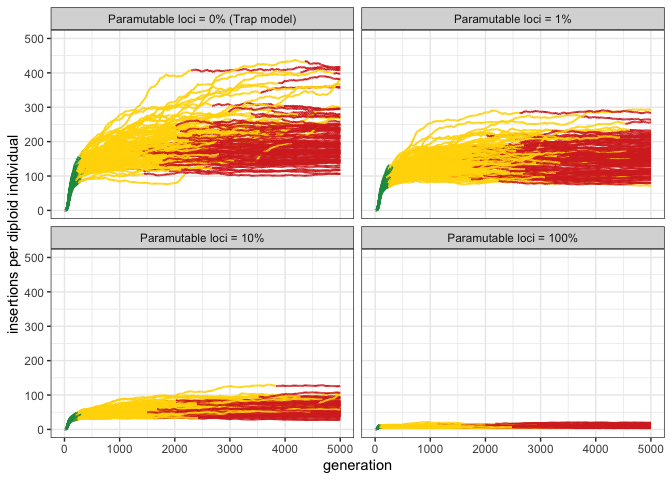
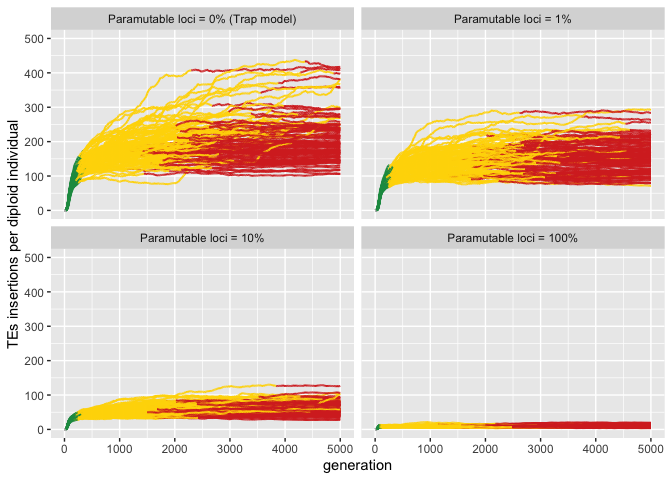
New graphs, R°2 cv cluster insertions ~ paramutations

diff --git a/Simulation/2022_08_09_Simulation_1_Paramutations.md b/Simulation/2022_08_09_Simulation_1_Paramutations.md
@@ -53,7 +53,7 @@ library(ggplot2)
 library(patchwork)
 library(plotrix)
 library(RColorBrewer)
-theme_set(theme_bw())
+library(ggpubr)
 ```
 
 Visualization:
@@ -74,7 +74,8 @@ df$sampleid <- factor(df$sampleid, levels=c("p0", "p1", "p10","p100"))
 
 g<-ggplot()+
   geom_line(data=df,aes(x=gen,y=avtes,group=rep,color=phase),alpha=1,size=0.7)+
-  ylab("insertions per diploid individual")+xlab("generation")+
+  xlab("generation")+
+  ylab("TEs insertions per diploid individual")+
   theme(legend.position="none")+
   scale_colour_manual(values=p)+
   ylim(0,500)+
@@ -98,7 +99,7 @@ df2<-subset(clus_ins, gen == 0 | gen == 100 | gen == 1000 | gen == 2500 | gen ==
 
 g2 <- ggplot(df2, aes(x=as.character(gen), y=percentcli)) + 
       geom_bar(stat = "identity", aes(fill=gen)) +
-      ylab("percentage of individuals with a cluster insertion")+
+      ylab("Percentage of individuals with a cluster insertion")+
       xlab("generation")+
       theme(legend.position = "none")+
       facet_wrap(~sampleid, labeller = labeller(sampleid = 
@@ -110,45 +111,98 @@ g2 <- ggplot(df2, aes(x=as.character(gen), y=percentcli)) +
 plot(g2)
 ```
 
-![](2022_08_09_Simulation_1_Paramutations_files/figure-gfm/unnamed-chunk-4-1.png)<!-- -->
+![](2022_08_09_Simulation_1_Paramutations_files/figure-gfm/unnamed-chunk-3-2.png)<!-- -->
 
 ``` r
 setwd("/Users/ascarpa/Paramutations_TEs/Simulation/Raw")
 df3<-read.table("2022_08_19_100_simulations", fill = TRUE, sep = "\t")
 names(df3)<-c("rep", "gen", "popstat", "fmale", "spacer_1", "fwte", "avw", "avtes", "avpopfreq", "fixed",
              "spacer_2", "phase", "fwpirna", "spacer_3", "fwcli", "avcli", "fixcli", "spacer_4", "fwpar_yespi",
-             "fwpar_nopi", "avpar","fixpar","spacer_5","piori","orifreq","spacer 6", "sampleid")
+             "fwpar_nopi", "avpar","fixpar","spacer_5","piori","orifreq","spacer 6", "sampleid", "extra")
 
 
 df3 = subset(df3, gen == 5000 )
+df3 <- df3 %>% 
+  select(-c("extra"))
+
+df3_2 <- df3 %>% 
+  group_by(sampleid) %>% 
+  summarize(av_cli = mean(avcli), sd_cli = sd(avcli), cv_cli_percent = sd(avcli)/mean(avcli), 
+            av_tes = mean(avtes), sd_tes = sd(avtes), cv_tes_percent = sd(avtes)/mean(avtes))
+
+percent_para<-c(0,10,100,15,20,25,30,35,40,45,5,50,55,60,65,70,75,80,85,90,95)
+df3_2$sampleid<-percent_para
+df3_2 <- df3_2[order(df3_2$sampleid),]
 
 
-df3_2<-aggregate(df3, by = list(df3$sampleid), FUN = "mean")
-names(df3_2)<-c("Group1","rep", "gen", "popstat", "fmale", "spacer_1", "fwte", "avw", "avtes", "avpopfreq", "fixed",
-             "spacer_2", "phase", "fwpirna", "spacer_3", "fwcli", "avcli", "fixcli", "spacer_4", "fwpar_yespi",
-             "fwpar_nopi", "avpar","fixpar","spacer_5","piori","orifreq","spacer 6", "sampleid")
+coeff_3=32.5
+g3 <- ggplot(df3_2, aes(x=sampleid))+
+  geom_point(aes(y=av_cli*coeff_3), color="blue")+
+  geom_line(aes(y=av_cli*coeff_3), color="blue")+
+  geom_point(aes(y=av_tes), color="red")+
+  geom_line(aes(y=av_tes), color="red")+
+  ggtitle("3% piRNA clusters")+
+  scale_y_continuous(
+    name = "TEs insertions per diploid individual",
+    sec.axis = sec_axis(~./coeff_3, name="cluster insertions per diploid individual")
+  )+
+  xlab("Percent of paramutable loci")+
+  theme(legend.position="none",
+        plot.title = element_text(size=14, face="bold"),
+        axis.title.y = element_text(color = "red", size=10),
+        axis.title.y.right = element_text(color = "blue", size=10)
+  )
 
-df3_2$Group1<-c(0,10,100,15,20,25,30,35,40,45,5,50,55,60,65,70,75,80,85,90,95)
-df3_2 <-df3_2[order(df3_2$Group1),]
-
-par(mar=c(5, 4, 4, 6) + 0.1)
-plot(df3_2$Group1, df3_2$avtes, pch=16, axes=FALSE, ylim=c(0,200), xlab="", ylab="", 
-     type="b",col="black")
-axis(2, ylim=c(0,200),col="black",las=1)
-mtext("TEs insertions per diploid individual",side=2,line=2.5)
-box()
-par(new=TRUE)
-plot(df3_2$Group1, df3_2$avcli, pch=15,  xlab="", ylab="", ylim=c(0,6), 
-     axes=FALSE, type="b", col="red")
-mtext("average cluster insertions",side=4,col="red",line=4) 
-axis(4, ylim=c(0,6), col="red",col.axis="red",las=1)
-axis(1,pretty(range(df3_2$Group1),10))
-mtext("percent paramutable loci",side=1,col="black",line=2.5)  
-legend("topright",legend=c("average TEs insertions","average cluster insertions"),
-       text.col=c("black","red"),pch=c(16,15),col=c("black","red"))
+plot(g3)
 ```
 
-![](2022_08_09_Simulation_1_Paramutations_files/figure-gfm/unnamed-chunk-5-1.png)<!-- -->
+![](2022_08_09_Simulation_1_Paramutations_files/figure-gfm/unnamed-chunk-3-3.png)<!-- -->
+
+``` r
+g_3_2 <- ggplot(df3_2, aes(x=sampleid, y=cv_tes_percent))+
+  geom_point()+
+  geom_smooth(method='lm', formula= y~x, se = FALSE)+
+  stat_regline_equation(label.y = 0.18, aes(label = ..eq.label..))+
+  stat_regline_equation(label.y = 0.16, aes(label = ..rr.label..))+
+  xlab("Percent of paramutable loci")+
+  ylab("Coefficient of variation TEs insertions per individual")+
+  scale_y_continuous(labels = scales::percent, limits = c(0, 0.4))+
+  ggtitle("Effects of paramutations on the cv of TE insertions per individual")+
+  theme(legend.position="none",
+        plot.title = element_text(size=14, face="bold"))
+
+plot(g_3_2)
+```
+
+![](2022_08_09_Simulation_1_Paramutations_files/figure-gfm/unnamed-chunk-3-4.png)<!-- -->
+
+``` r
+g_3_3 <- ggplot(df3_2, aes(x=sampleid, y=cv_cli_percent))+
+  geom_point()+
+  geom_smooth(method='lm', formula= y~x, se = FALSE)+
+  stat_regline_equation(label.y = 2.8, aes(label = ..eq.label..))+
+  stat_regline_equation(label.y = 2.6, aes(label = ..rr.label..))+
+  xlab("Percent of paramutable loci")+
+  ylab("Coefficient of variation TEs insertions per individual")+
+  scale_y_continuous(labels = scales::percent)+
+  ggtitle("Effects of paramutations on the cv of cluster insertions")+
+  theme(legend.position="none",
+        plot.title = element_text(size=14, face="bold"))
+
+plot(g_3_3)
+```
+
+![](2022_08_09_Simulation_1_Paramutations_files/figure-gfm/unnamed-chunk-3-5.png)<!-- -->
+
+The high
+![R^2](https://latex.codecogs.com/png.image?%5Cdpi%7B110%7D&space;%5Cbg_white&space;R%5E2 "R^2")
+obtained from the linear regression of the cv of cluster insertions on
+the paramutable loci size shows a relation between the two. This make
+sense in our model since the increase of paramutable loci increase the
+number of scenarios in which cluster insertions and paramutations
+contribute to stop the TEs invasion. This is not the case for TEs, they
+dicrease with the increase of paramutable loci, but their coefficient of
+variation is not affected.
 
 ## Conclusions
 
